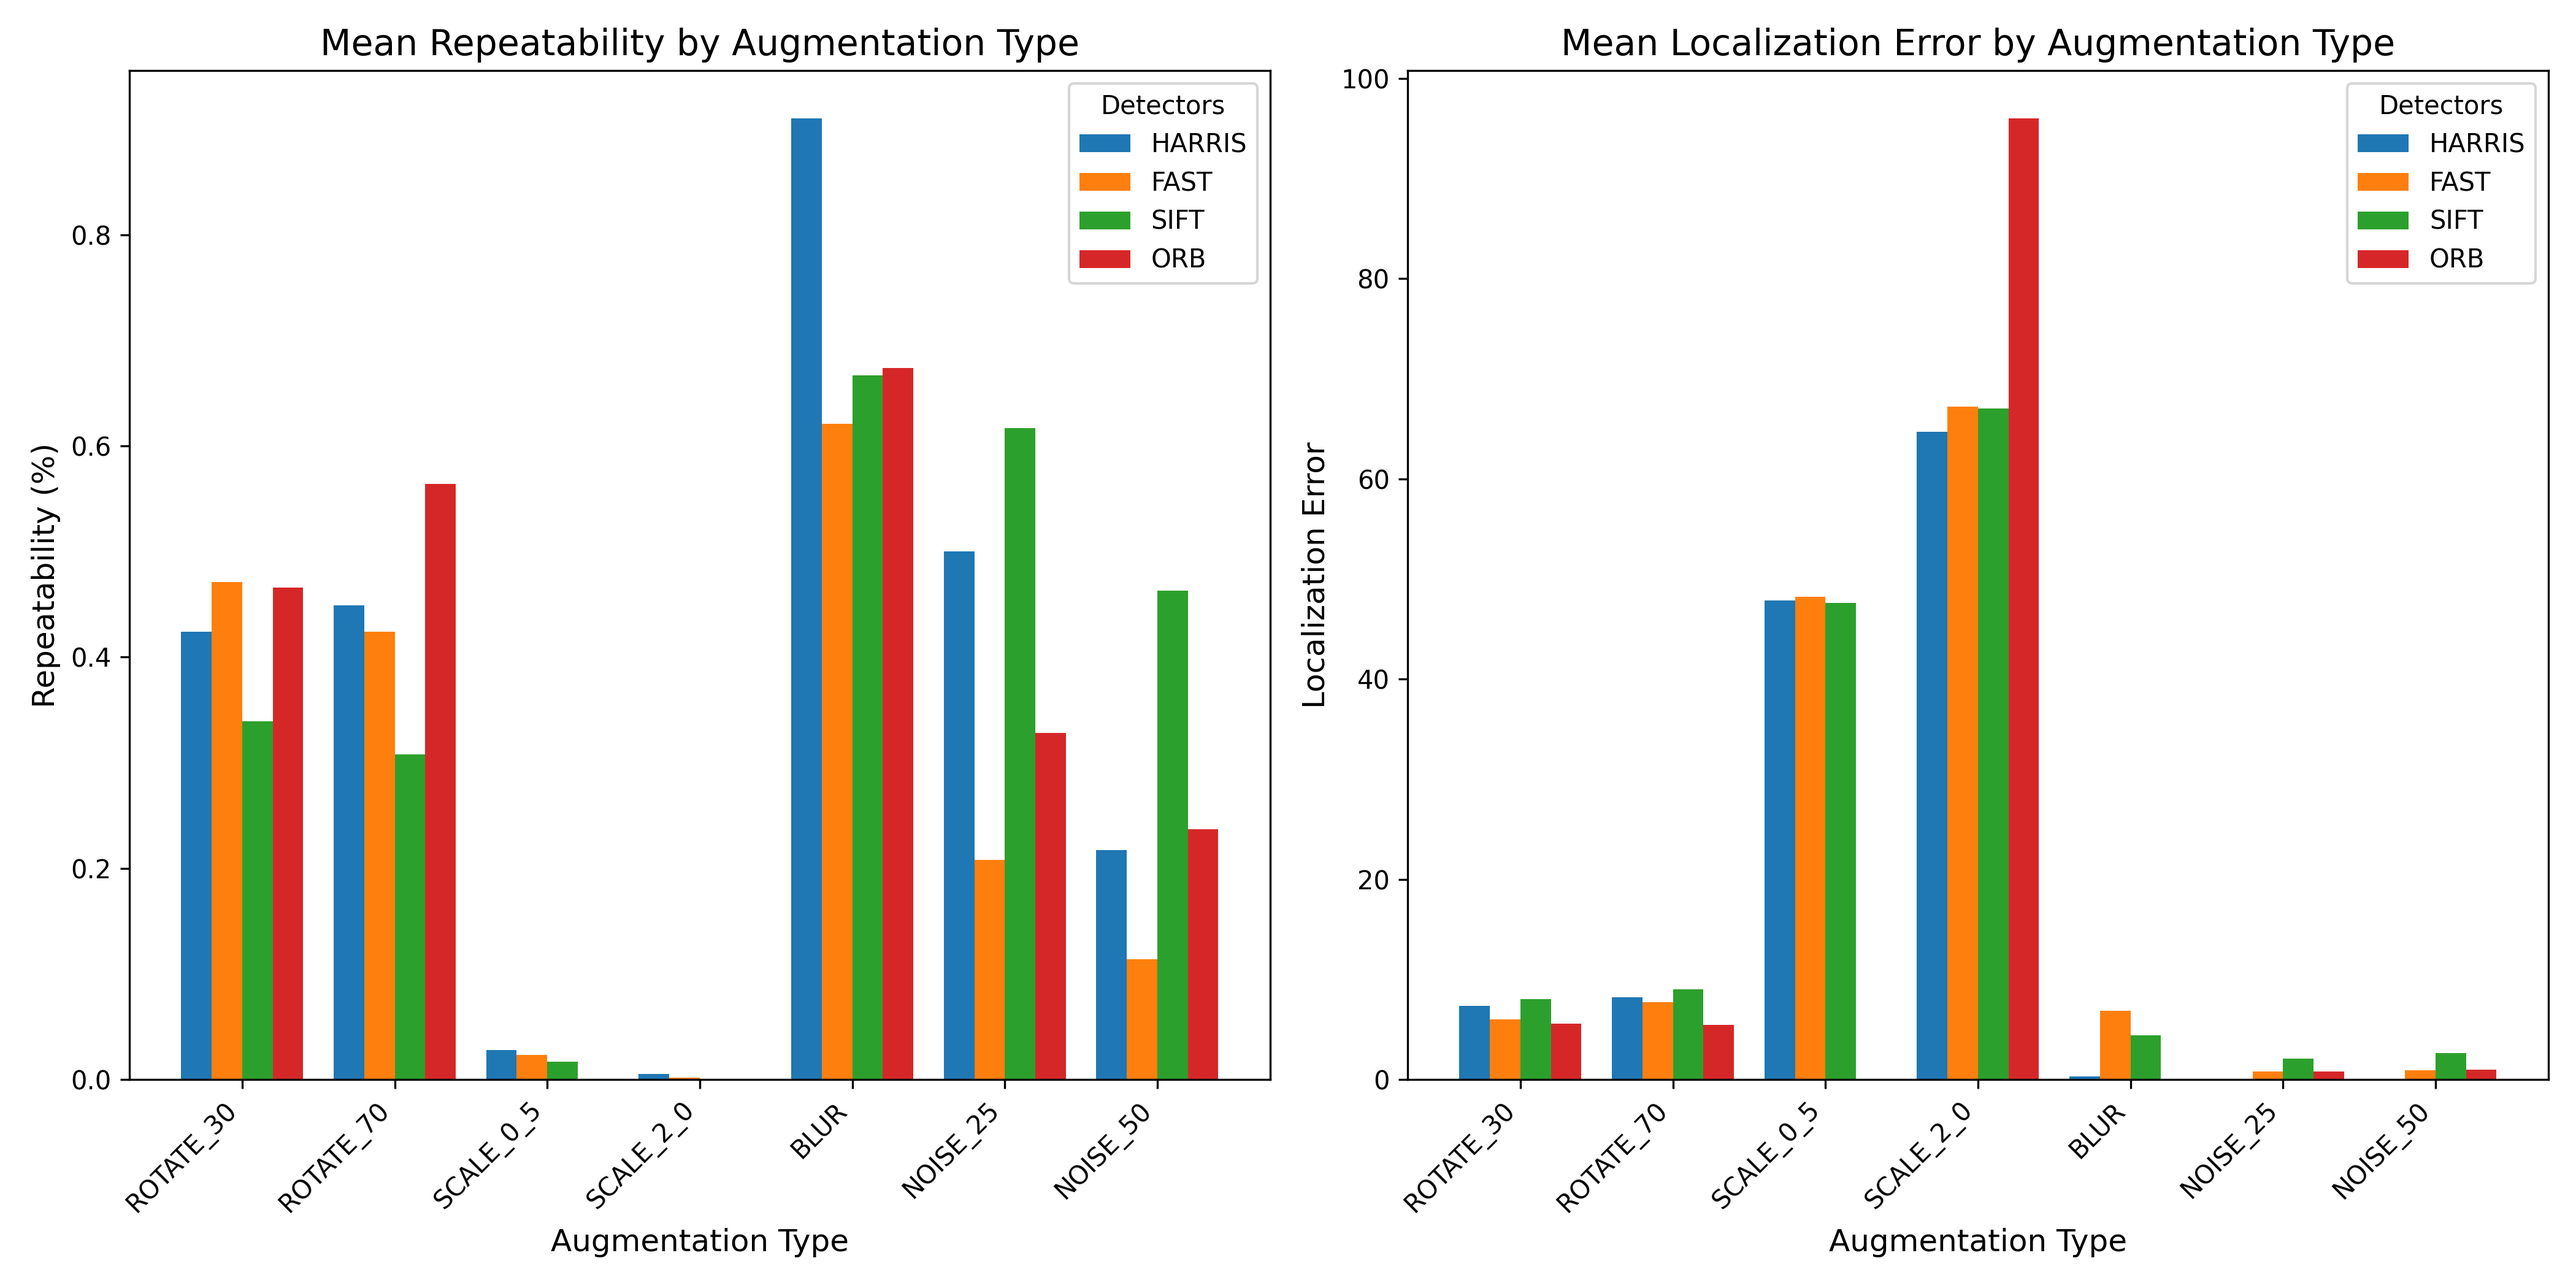
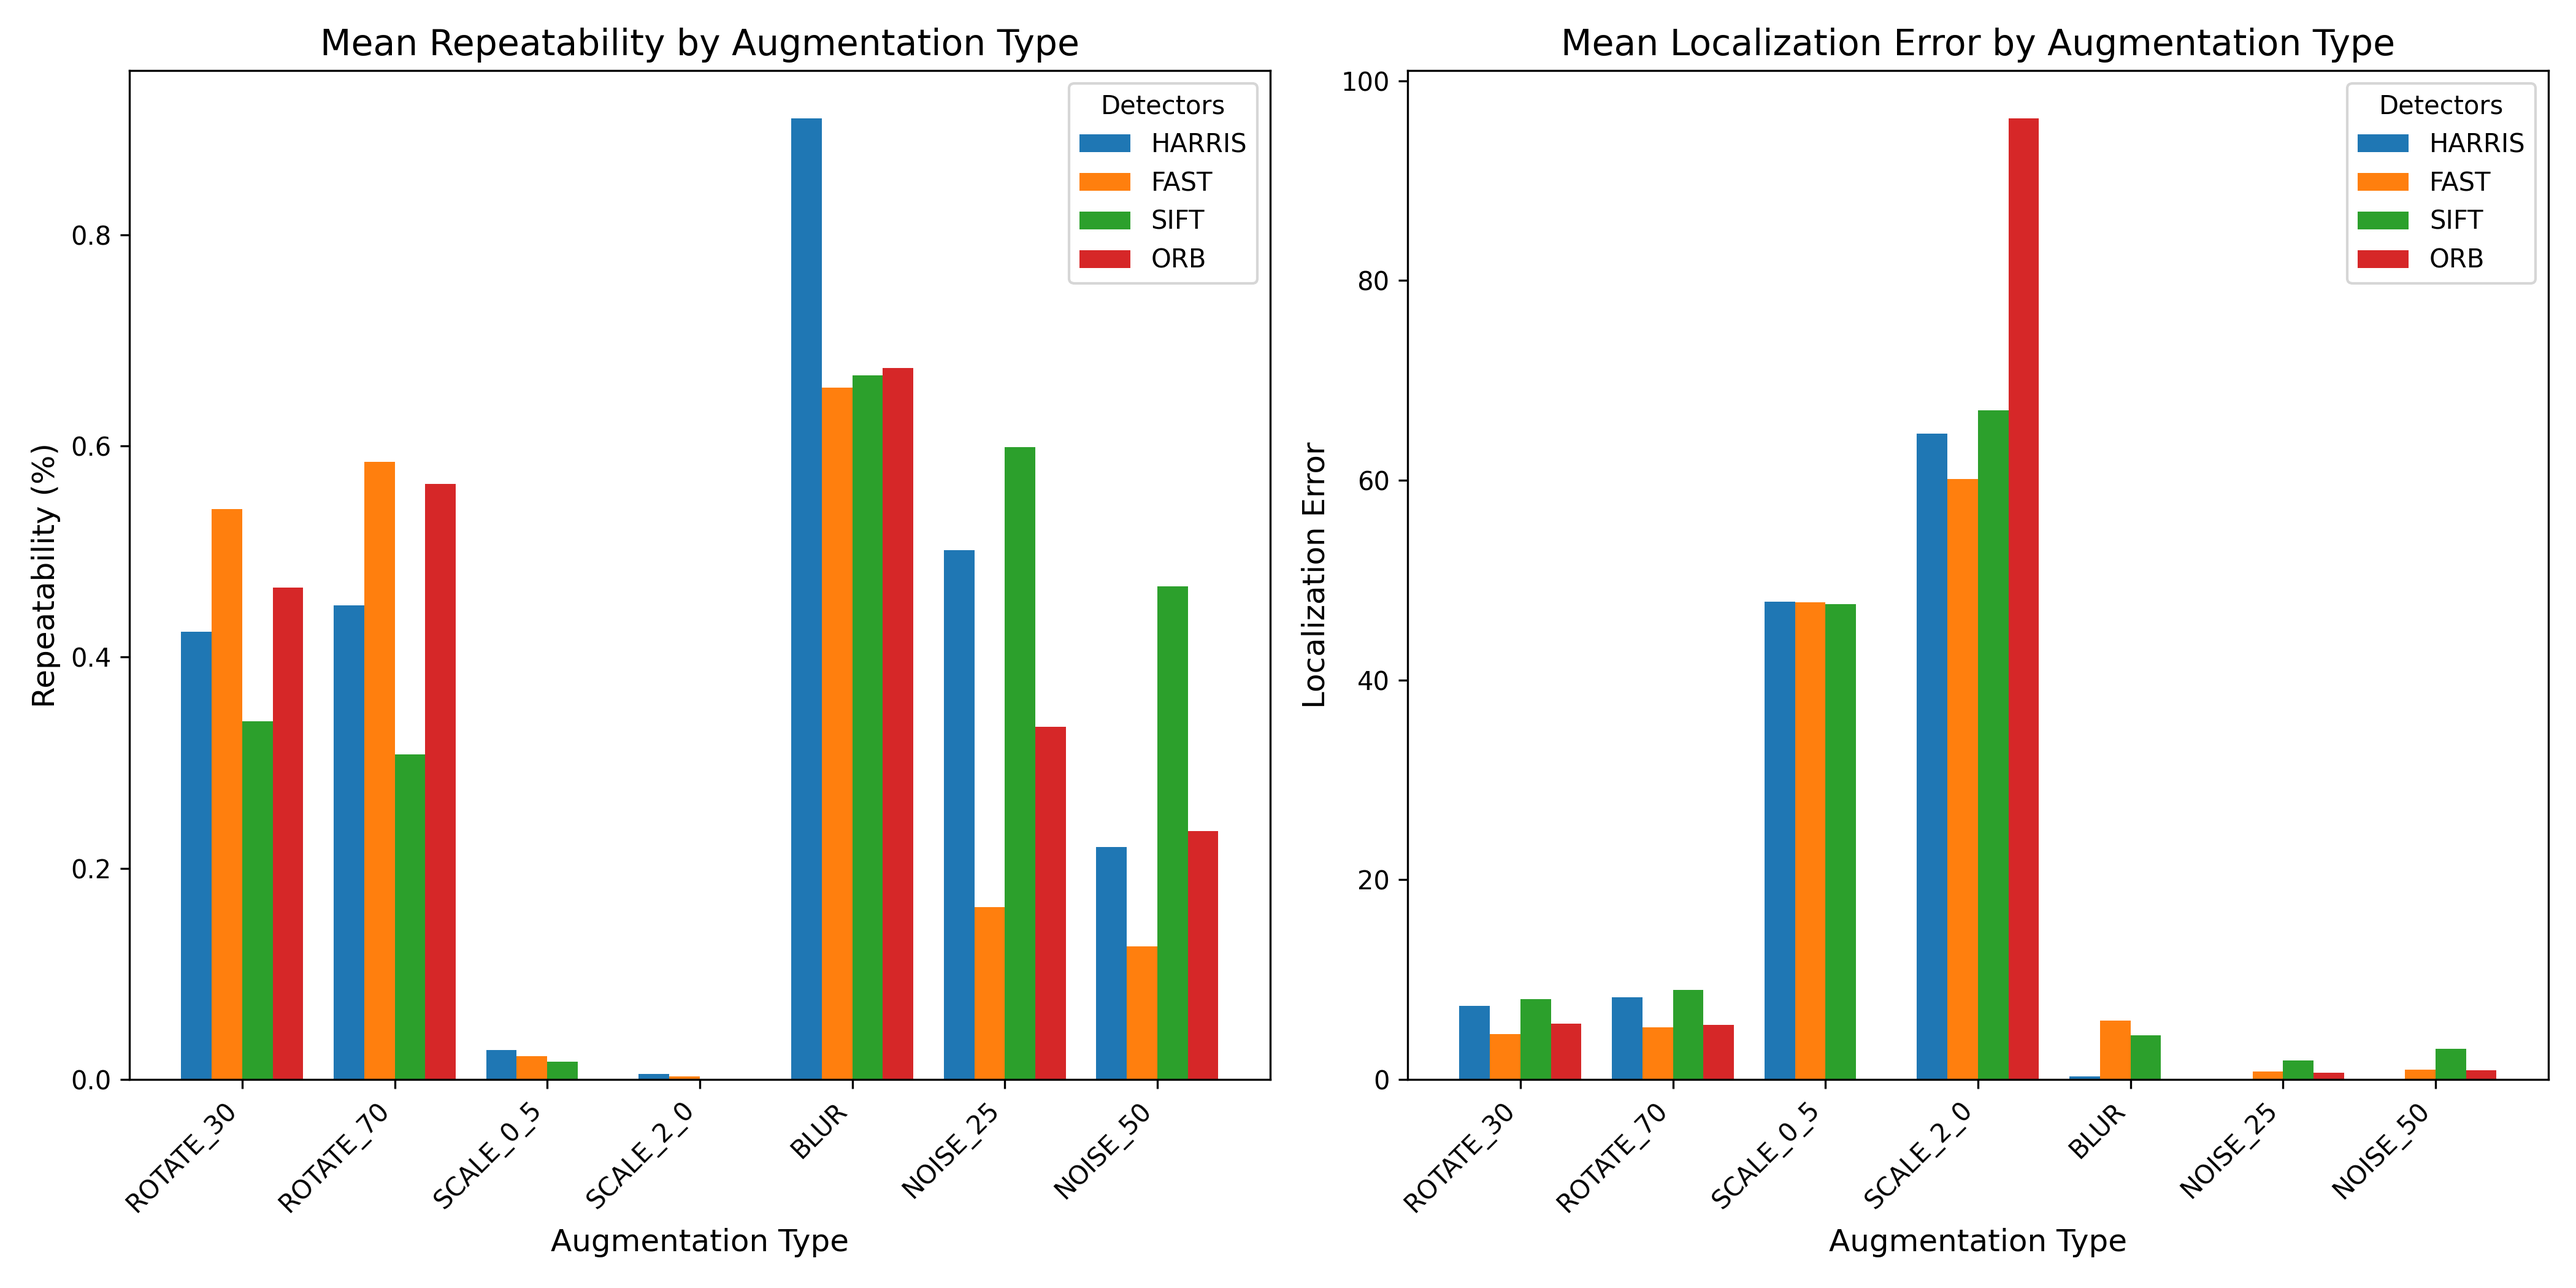
(~) initial commit

diff --git a/detectors.py b/detectors.py
@@ -1,11 +1,11 @@
 import os
 from enum import Enum, auto
-from multiprocessing import Pool
 from typing import List, Dict
 
 import cv2
 import numpy as np
 from matplotlib import pyplot as plt
+from tqdm import tqdm
 
 
 # Enum for augmentation types
@@ -28,7 +28,7 @@ class DetectorType(Enum):
 
 
 # Function to detect keypoints using the specified type
-def detect_keypoints(image: np.ndarray, detector_type: DetectorType) -> List[cv2.KeyPoint]:
+def detect_keypoints(image, detector_type) -> List[cv2.KeyPoint]:
     gray = cv2.cvtColor(image, cv2.COLOR_BGR2GRAY)
 
     if detector_type == DetectorType.HARRIS:
@@ -39,15 +39,11 @@ def detect_keypoints(image: np.ndarray, detector_type: DetectorType) -> List[cv2
 
     elif detector_type == DetectorType.FAST:
         fast = cv2.FastFeatureDetector_create()
-        fast.setThreshold(20)
-        fast.setNonmaxSuppression(True)
-        fast.setType(cv2.FAST_FEATURE_DETECTOR_TYPE_9_16)
         return fast.detect(gray, None)
 
     elif detector_type == DetectorType.ORB:
-        orb = cv2.ORB_create(nfeatures=500, scaleFactor=1.2, nlevels=4, scoreType=cv2.ORB_HARRIS_SCORE)
+        orb = cv2.ORB_create()
         return orb.detect(gray, None)
-
 
     elif detector_type == DetectorType.SIFT:
         sift = cv2.SIFT_create()
@@ -58,56 +54,48 @@ def detect_keypoints(image: np.ndarray, detector_type: DetectorType) -> List[cv2
 
 
 # Function to apply augmentations and return the transformation matrix
-def apply_augmentations(image: np.ndarray, augmentation: AugmentationType) -> (np.ndarray, np.ndarray):
-    def rotate_image(image: np.ndarray, angle: float) -> (np.ndarray, np.ndarray):
+def apply_augmentations(image, augmentation):
+    def _rotate_image(angle):
         center = (image.shape[1] // 2, image.shape[0] // 2)
         rotation_matrix = cv2.getRotationMatrix2D(center, angle, 1)
-        transformed = cv2.warpAffine(image, rotation_matrix, (image.shape[1], image.shape[0]))
-        return transformed, rotation_matrix
+        return cv2.warpAffine(image, rotation_matrix, image.shape[:2]), rotation_matrix
+
+    def _scale_image(scale_factor):
+        scale_matrix = np.array(
+            [[scale_factor, 0, 0], [0, scale_factor, 0]], dtype=np.float32
+        )
+        new_size = (
+            int(image.shape[1] * scale_factor),
+            int(image.shape[0] * scale_factor),
+        )
+        return cv2.warpAffine(image, scale_matrix, new_size), scale_matrix
+
+    def _add_noise(noise_level):
+        noise = np.random.normal(0, noise_level, image.shape).astype(np.int16)
+        return np.clip(image.astype(np.int16) + noise, 0, 255).astype(np.uint8), np.eye(
+            3, dtype=np.float32
+        )
 
     if augmentation == AugmentationType.ROTATE_30:
-        return rotate_image(image, 30)
-
+        return _rotate_image(30)
     elif augmentation == AugmentationType.ROTATE_70:
-        return rotate_image(image, 70)
-
+        return _rotate_image(70)
     elif augmentation == AugmentationType.SCALE_0_5:
-        scale_matrix = np.array([[0.5, 0, 0], [0, 0.5, 0]], dtype=np.float32)
-        return (
-            cv2.warpAffine(
-                image,
-                scale_matrix,
-                (int(image.shape[1] * 0.5), int(image.shape[0] * 0.5)),
-            ),
-            scale_matrix,
-        )
-
+        return _scale_image(0.5)
     elif augmentation == AugmentationType.SCALE_2_0:
-        scale_matrix = np.array([[2.0, 0, 0], [0, 2.0, 0]], dtype=np.float32)
-        return (
-            cv2.warpAffine(
-                image,
-                scale_matrix,
-                (int(image.shape[1] * 2.0), int(image.shape[0] * 2.0)),
-            ),
-            scale_matrix,
-        )
-
+        return _scale_image(2.0)
     elif augmentation == AugmentationType.BLUR:
         return cv2.GaussianBlur(image, (5, 5), 0), np.eye(3, dtype=np.float32)
-
-    elif augmentation in [AugmentationType.NOISE_25, AugmentationType.NOISE_50]:
-        noise_level = 25 if augmentation == AugmentationType.NOISE_25 else 50
-        noise = np.random.normal(0, noise_level, image.shape).astype(np.int16)
-        noisy_image = np.clip(image.astype(np.int16) + noise, 0, 255).astype(np.uint8)
-        return noisy_image, np.eye(3, dtype=np.float32)
-
+    elif augmentation == AugmentationType.NOISE_25:
+        return _add_noise(25)
+    elif augmentation == AugmentationType.NOISE_50:
+        return _add_noise(50)
     else:
         return image, np.eye(3, dtype=np.float32)
 
 
 # Transform keypoints to match the original coordinate system
-def transform_keypoints(keypoints: List[cv2.KeyPoint], transformation_matrix: np.ndarray) -> List[cv2.KeyPoint]:
+def transform_keypoints(keypoints, transformation_matrix) -> List[cv2.KeyPoint]:
     if not keypoints:
         return []
 
@@ -120,7 +108,7 @@ def transform_keypoints(keypoints: List[cv2.KeyPoint], transformation_matrix: np
 
 
 # Utility function to compute pairwise distances
-def compute_pairwise_distances(original: List[cv2.KeyPoint], transformed: List[cv2.KeyPoint]) -> np.ndarray:
+def compute_pairwise_distances(original, transformed) -> np.ndarray:
     if not original or not transformed:
         return np.array([])
 
@@ -131,9 +119,11 @@ def compute_pairwise_distances(original: List[cv2.KeyPoint], transformed: List[c
     return np.linalg.norm(orig_points[:, None, :] - trans_points[None, :, :], axis=2)
 
 
-def plot_results(mean_repeatability: Dict[str, List[float]],
-                 mean_localization_error: Dict[str, List[float]],
-                 augmentation_labels: List[str]):
+def plot_results(
+    mean_repeatability,
+    mean_localization_error,
+    augmentation_labels,
+):
     """
     Plots the mean repeatability and localization error as histograms.
     """
@@ -149,29 +139,51 @@ def plot_results(mean_repeatability: Dict[str, List[float]],
     x = np.arange(len(augmentation_labels))  # x-axis positions for bars
 
     for i, detector in enumerate(detectors):
-        plt.bar(x + i * width, [mean_repeatability[aug][i] for aug in augmentation_labels], width, label=detector)
+        plt.bar(
+            x + i * width,
+            [mean_repeatability[aug][i] for aug in augmentation_labels],
+            width,
+            label=detector,
+        )
 
     plt.title("Mean Repeatability by Augmentation Type", fontsize=14)
     plt.xlabel("Augmentation Type", fontsize=12)
     plt.ylabel("Repeatability (%)", fontsize=12)
-    plt.xticks(x + (len(detectors) - 1) * width / 2, augmentation_labels, rotation=45, ha="right", fontsize=10)
+    plt.xticks(
+        x + (len(detectors) - 1) * width / 2,
+        augmentation_labels,
+        rotation=45,
+        ha="right",
+        fontsize=10,
+    )
     plt.legend(title="Detectors", fontsize=10)
 
     # Plot Localization Error
     plt.subplot(1, 2, 2)
     for i, detector in enumerate(detectors):
-        plt.bar(x + i * width, [mean_localization_error[aug][i] for aug in augmentation_labels], width, label=detector)
+        plt.bar(
+            x + i * width,
+            [mean_localization_error[aug][i] for aug in augmentation_labels],
+            width,
+            label=detector,
+        )
 
     plt.title("Mean Localization Error by Augmentation Type", fontsize=14)
     plt.xlabel("Augmentation Type", fontsize=12)
     plt.ylabel("Localization Error", fontsize=12)
-    plt.xticks(x + (len(detectors) - 1) * width / 2, augmentation_labels, rotation=45, ha="right", fontsize=10)
+    plt.xticks(
+        x + (len(detectors) - 1) * width / 2,
+        augmentation_labels,
+        rotation=45,
+        ha="right",
+        fontsize=10,
+    )
     plt.legend(title="Detectors", fontsize=10)
 
     # Finalize and Show
     plt.tight_layout()
-    plt.savefig('results_plot.png', dpi=300)  # Save the plot as a high-resolution image
-    plt.show()
+    plt.savefig("results_plot.png", dpi=300)  # Save the plot as a high-resolution image
+    # plt.show()
 
 
 def calc_metrics(keypoints_original, keypoints_transformed):
@@ -183,7 +195,9 @@ def calc_metrics(keypoints_original, keypoints_transformed):
     else:
         # Calculate repeatability
         matches = np.any(distances <= 5.0, axis=1).sum()
-        repeatability = round(matches / max(len(keypoints_original), len(keypoints_transformed)), 2)
+        repeatability = round(
+            matches / max(len(keypoints_original), len(keypoints_transformed)), 2
+        )
 
         # Calculate localization error
         min_distances = np.min(distances, axis=1)
@@ -192,13 +206,27 @@ def calc_metrics(keypoints_original, keypoints_transformed):
     return repeatability, localization_error
 
 
-def load_image(image_path: str):
+def load_image(image_path):
     image = cv2.imread(image_path, cv2.IMREAD_COLOR)
     image = cv2.resize(image, (100, 100))  # # Resize for optimization
     return image
 
 
-def process_image(image_path: str, augmentations: list, detectors: list) -> Dict:
+def visualize_keypoints(image, keypoints, title):
+    """
+    Visualizes the provided keypoints on the given image.
+    """
+    fig, ax = plt.subplots(figsize=(8, 6))
+    ax.imshow(image)
+    for kp in keypoints:
+        x, y = kp.pt
+        ax.plot(x, y, "ro", markersize=5)
+    ax.set_title(title)
+    plt.savefig(f"plots\\{title}.png", dpi=300)
+    plt.close()
+
+
+def process_image(image_path, augmentations, detectors, pbar):
     """
     Process a single image with all augmentations and detectors.
     """
@@ -207,41 +235,71 @@ def process_image(image_path: str, augmentations: list, detectors: list) -> Dict
 
     for augmentation in augmentations:
         # Apply augmentation
-        transformed_image, transformation_matrix = apply_augmentations(image, augmentation)
+        transformed_image, transformation_matrix = apply_augmentations(
+            image, augmentation
+        )
 
         for detector in detectors:
-            print(image_path, augmentation, detector)
-
             # Detect keypoints in the original and transformed images
             keypoints_original = detect_keypoints(image, detector)
             keypoints_transformed = detect_keypoints(transformed_image, detector)
 
             # Transform keypoints back to the original coordinate system
-            keypoints_transformed = transform_keypoints(keypoints_transformed, transformation_matrix)
+            keypoints_transformed_original_coordinate_system = transform_keypoints(
+                keypoints_transformed, transformation_matrix
+            )
 
             # Evaluate repeatability and localization error & store results
-            repeatability, localization_error = calc_metrics(keypoints_original, keypoints_transformed)
+            repeatability, localization_error = calc_metrics(
+                keypoints_original, keypoints_transformed_original_coordinate_system
+            )
             results["repeatability"][(augmentation.name, detector.name)] = repeatability
-            results["localization_error"][(augmentation.name, detector.name)] = localization_error
+            results["localization_error"][
+                (augmentation.name, detector.name)
+            ] = localization_error
+
+            visualize_keypoints(image, keypoints_original, f"ORIGINAL_{os.path.basename(image_path)}_{detector.name}")
+            visualize_keypoints(
+                transformed_image,
+                keypoints_transformed,
+                f"TRANSFORMED_{os.path.basename(image_path)}_{detector.name}_{augmentation.name}",
+            )
+
+            # Update the progress bar after completing one detector for one augmentation
+            pbar.update(1)
 
     return results
 
 
 def main():
     image_dir = "images"
-    image_paths = [os.path.join(image_dir, filename) for filename in os.listdir(image_dir) if filename.endswith('.png')]
+    image_paths = [
+        os.path.join(image_dir, filename)
+        for filename in os.listdir(image_dir)
+        if filename.endswith(".png")
+    ]
+    # image_paths = [image_paths[0]]
 
     augmentations = list(AugmentationType)
     detectors = list(DetectorType)
 
-    all_results = []
-    for image_path in image_paths:
-        result = process_image(image_path, augmentations, detectors)
-        all_results.append(result)
+    # Calculate total number of tasks
+    total_tasks = len(image_paths) * len(augmentations) * len(detectors)
+
+    # Initialize a single progress bar
+    with tqdm(total=total_tasks, desc="Processing All Tasks", unit="task") as pbar:
+        all_results = []
+        for image_path in image_paths:
+            result = process_image(image_path, augmentations, detectors, pbar)
+            all_results.append(result)
 
     # Aggregate results
-    repeatability = {aug.name: {det.name: [] for det in detectors} for aug in augmentations}
-    localization_error = {aug.name: {det.name: [] for det in detectors} for aug in augmentations}
+    repeatability = {
+        aug.name: {det.name: [] for det in detectors} for aug in augmentations
+    }
+    localization_error = {
+        aug.name: {det.name: [] for det in detectors} for aug in augmentations
+    }
 
     for result in all_results:
         for key, value in result["repeatability"].items():
@@ -263,7 +321,9 @@ def main():
     }
 
     # Plot results
-    plot_results(mean_repeatability, mean_localization_error, [aug.name for aug in augmentations])
+    plot_results(
+        mean_repeatability, mean_localization_error, [aug.name for aug in augmentations]
+    )
 
 
 if __name__ == "__main__":

diff --git a/descriptors.py b/descriptors.py
@@ -29,5 +29,3 @@ def orb_descriptor(image):
     orb = cv2.ORB_create()
     keypoints, descriptors = orb.detectAndCompute(image, None)
     return keypoints, descriptors
-
-

diff --git a/README.md b/README.md
@@ -1,1 +1,2 @@
-# ComputerVisionCourse-DetectorsAndDescriptors
+# הערכת ביצועים של גלאי נקודות תחת עיוותים שונים
+
